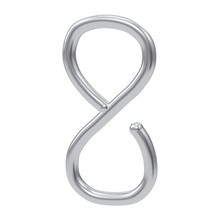
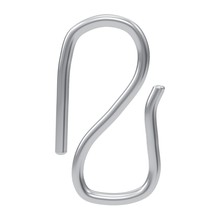
Add files via upload

Changed region(s): [[0.2455, 0.0545, 0.7636, 0.9545], [0.3545, 0.1636, 0.3818, 0.1909]]

diff --git a/configurateur/bead-core.js b/configurateur/bead-core.js
@@ -369,7 +369,7 @@ export const PLANCHE_ROCAILLES = [
   // d'après tes photos des bocaux : rouge 2 framboise métallisé, rouge 3 doublé argent vif, rouge 4 irisé à reflets violets ;
   // orange 2 = orange clair lustré, orange 3 = orange-rouge doublé argent (références inversées)
   ['rouge 1', '#c8101a', 'opaque'],              ['rouge 2', '#a3122e', 'transparent-metal'],   ['rouge 3', '#cc1420', 'transparent-metal'],  ['rouge 4', '#c8182c', 'transparent-irise-violet'],
-  ['orange 1', '#ff6a00', 'opaque-fluo'],             ['orange 2', '#ff8c2e', 'lustre-metal'],       ['orange 3', '#d8480c', 'transparent-metal'],  ['marron', '#4e2a10', 'brun-reflet'],
+  ['orange 1', '#ff6a00', 'opaque-fluo'],             ['orange 2', '#ff8c2e', 'lustre-metal'],       ['orange 3', '#d8480c', 'transparent-metal'],  ['marron', '#3a1f0c', 'brun-reflet'],
   ['jaune 1', '#ffb300', 'opaque-pep'],              ['jaune 2', '#f2d21e', 'translucide'],         ['pêche 1', '#f4a07a', 'translucide-metal'],        ['pêche 2', '#ee8a66', 'opaque'],
   ['bleu 1', '#00c9be', 'opaque-vif'],               ['bleu 2', '#2fa6cc', 'transparent-metal'],    ['bleu 3', '#1a36aa', 'opaque'],              ['bleu 4', '#15246e', 'opaque'],
   ['rose 1', '#f0288f', 'opaque'],               ['rose 2', '#f04ab8', 'translucide'],          ['vert 1', '#93b02a', 'transparent-metal'],   ['vert 2', '#2f7f3a', 'transparent'],
@@ -534,7 +534,7 @@ export const MINI_DEMO = [
   { ref: '#MC-ex02', forme: 'mini-fleur-4' }, { ref: '#MC-ex04', forme: 'mini-intercalaire-4' },
 ].map(c => ({ ...c, nom: FORMES_CHAINMAIL[c.forme].nom, hex: '#b4b6ba', finition: 'chainmail', categorie: 'Breloques chainmail', famille: 'Mini chain' }));
 export const CHAINMAIL_DEMO = [
-  { ref: '#CM-ex01', nom: 'Croix', hex: '#b4b6ba', finition: 'chainmail', forme: 'croix', categorie: 'Breloques chainmail', famille: 'Croix' },
+  { ref: '#CM-ex01', nom: 'Croix', hex: '#b4b6ba', finition: 'chainmail', forme: 'croix', categorie: 'Breloques chainmail', famille: 'Formes' },
 ];
 /* Liens explicites produit ↔ forme 3D (🔗 Références › Produits) : « forme:croix » → ref de la fiche bijou */
 let LIENS_FORMES = {};
@@ -564,10 +564,19 @@ export function catalogueChainmailDepuisBijoux(bijoux = []) {
     const deja = parForme.get(forme);
     if (!deja || score(b) > score(deja.b)) parForme.set(forme, { b, forme });
   }
-  for (const f of Object.keys(FORMES_CHAINMAIL)) { const r = lienForme(f), b = r && bijoux.find(x => x.ref === r); if (b && !FORMES_CHAINMAIL[f].chaine) parForme.set(f, { b, forme: f }); }
+  // formes proposées pour la breloque chainmail : la croix, les mini chains, et tes compositions « breloque » (motifs chainmail pampille) ;
+  // jamais les chaînes de sac ni les boucles d'oreilles
+  const proposable = f => { const F = FORMES_CHAINMAIL[f]; return !!F && !F.chaine && (F.compo ? F.usage === 'breloque' : true); };
+  for (const f of [...parForme.keys()]) if (!proposable(f)) parForme.delete(f);
+  for (const f of Object.keys(FORMES_CHAINMAIL)) { const r = lienForme(f), b = r && bijoux.find(x => x.ref === r); if (b && proposable(f)) parForme.set(f, { b, forme: f }); }
+  // une fiche = une seule forme (ta composition passe avant la forme d'origine), et pas deux fois le même nom
+  const vus = new Map();
+  for (const [f, x] of [...parForme].sort((a, b) => (FORMES_CHAINMAIL[b[0]].compo ? 1 : 0) - (FORMES_CHAINMAIL[a[0]].compo ? 1 : 0))) {
+    const k = x.b.id, n = norm(FORMES_CHAINMAIL[f].nom); if (vus.has(k) || vus.has('n:' + n)) { parForme.delete(f); continue; } vus.set(k, 1); vus.set('n:' + n, 1); }
+  const famille = f => { const F = FORMES_CHAINMAIL[f]; return (F.compo ? /\bmini/.test(norm(F.nom)) : F.mini) ? 'Mini chain' : 'Formes'; };
   return [...parForme.values()].map(({ b, forme }) => ({
     ref: b.ref, bij_id: b.id, nom: FORMES_CHAINMAIL[forme].nom, hex: '#b4b6ba', finition: 'chainmail', forme,
-    categorie: 'Breloques chainmail', famille: FORMES_CHAINMAIL[forme].mini ? 'Mini chain' : 'Croix', bijou: true, pv: b.pv ?? (b.parent_id && parId.get(b.parent_id)?.pv), enStock: true, ordre: 1e6 + 1 }));
+    categorie: 'Breloques chainmail', famille: famille(forme), bijou: true, pv: b.pv ?? (b.parent_id && parId.get(b.parent_id)?.pv), enStock: true, ordre: 1e6 + 1 }));
 }
 export function completerCatalogue(catalogue, bijoux = []) {
   let base = catalogue.filter(c => !['argile', 'chainmail'].includes(c.finition) || !/-ex\d/.test(c.ref));
@@ -1101,10 +1110,10 @@ export function creerMateriau(couleur) {
       break;
     case 'brun-reflet':            // marron transparent avec reflets caramel clairs (on lit bien le brun)
       // sans transparence (elle assombrissait la perle jusqu'au noir) : brun lumineux + reflets caramel clairs bien visibles
-      Object.assign(p, { roughness: 0.1, metalness: 0.78, clearcoat: 1, clearcoatRoughness: 0.04,
-        specularColor: new THREE.Color('#d98a3a'), specularIntensity: 1,
-        emissive: c.clone().multiplyScalar(0.3), sheen: 1, sheenRoughness: 0.2, sheenColor: new THREE.Color('#d9883a'),
-        iridescence: 0.35, iridescenceIOR: 1.45, iridescenceThicknessRange: [520, 640], envMapIntensity: 1.7 });
+      // base marron foncé, reflets métalliques caramel clair
+      // base marron foncé, reflet métallique caramel clair bien contrasté : métal caramel (les zones sans reflet restent sombres) + vernis
+      Object.assign(p, { color: new THREE.Color('#7a4419'), roughness: 0.16, metalness: 1, clearcoat: 0.7, clearcoatRoughness: 0.06,
+        emissive: c.clone().multiplyScalar(0.05), envMapIntensity: 1.6, sheen: 1, sheenRoughness: 0.25, sheenColor: new THREE.Color('#ffcf8c') });
       break;
     case 'translucide-metal':      // verre teinté peu transparent avec reflet métal (pêche 1, marron) : la teinte reste lisible
       Object.assign(p, { transmission: 0.2, thickness: 1.2, ior: 1.55, roughness: 0.05, metalness: 0.74,
@@ -1653,36 +1662,37 @@ function geosAccessoire(type, taille = 12) {
 /* Fermoir S, hauteur H (≈ 14 mm sur ta photo, comme le petit fermoir breloque) : fil ≈ 0,09 H, deux boucles en goutte,
    largeur ≈ 0,6 H. Plan YZ, bas de la boucle du bas à l'origine, le S monte vers -Z. */
 function geosFermoirS(H) {
-  // d'après tes photos : deux boucles en goutte allongées (côtés presque droits, pointe vers le milieu), reliées par une diagonale droite ;
-  // le bout de la boucle du haut est rentré contre la diagonale, celui du bas reste ouvert et s'écarte un peu (là où passe la pièce)
-  const W = 0.52 * H, r = Math.max(0.28, 0.038 * H);
-  const P = [[0.05, 0.525], [0.24, 0.61], [0.40, 0.72], [0.45, 0.83], [0.36, 0.955], [0.12, 1.0], [-0.22, 0.97], [-0.40, 0.88], [-0.42, 0.76], [-0.30, 0.65], [-0.12, 0.56],
-    [0.12, 0.44], [0.30, 0.35], [0.42, 0.24], [0.40, 0.10], [0.22, 0.015], [-0.05, 0.0], [-0.30, 0.03], [-0.44, 0.12], [-0.45, 0.24], [-0.38, 0.35], [-0.30, 0.41]];
-  const c = new THREE.CatmullRomCurve3(P.map(([y, h]) => new THREE.Vector3(0, y * W, -h * H)), false, 'centripetal');
-  const g = [new THREE.TubeGeometry(c, 220, r, 10, false)];
-  for (const [y, h] of [P[0], P[P.length - 1]]) { const e = new THREE.SphereGeometry(r * 1.05, 10, 8); e.translate(0, y * W, -h * H); g.push(e); }
+  // relevé sur ta photo (fermoir tenu entre les doigts) : boucle du haut en goutte, sa jambe gauche descend tout droit jusqu'à un bout ouvert ;
+  // la diagonale part du côté droit de la boucle du haut vers le bas gauche ; boucle du bas arrondie, sa jambe droite remonte jusqu'à un bout ouvert
+  const W = 0.6 * H, r = Math.max(0.28, 0.034 * H);
+  const P = [[-0.47, 0.28], [-0.46, 0.42], [-0.45, 0.55], [-0.42, 0.78], [-0.33, 0.93], [-0.08, 0.995], [0.17, 0.96], [0.28, 0.85], [0.26, 0.70],
+    [0.04, 0.51], [-0.23, 0.33], [-0.31, 0.21], [-0.31, 0.11], [-0.24, 0.035], [-0.04, 0.005], [0.18, 0.015], [0.33, 0.06], [0.40, 0.16], [0.38, 0.33], [0.36, 0.52], [0.43, 0.63]];
+  const c = new THREE.CatmullRomCurve3(P.map(([y, h]) => new THREE.Vector3(0, -y * W, -h * H)), false, 'centripetal');   // -y : vu comme sur la photo
+  const g = [new THREE.TubeGeometry(c, 240, r, 10, false)];
+  for (const [y, h] of [P[0], P[P.length - 1]]) { const e = new THREE.SphereGeometry(r, 10, 8); e.scale(1, 1, 0.6); e.translate(0, -y * W, -h * H); g.push(e); }   // bouts coupés
   return g;
 }
 /* Manille, hauteur H (≈ 24 mm sur ta photo à côté du mousqueton porte-clés de 34 mm) : arceau en U (fil ≈ 0,16 H, ouverture ≈ 0,54 H),
    deux oreilles en haut, axe vissé avec sa patte percée d'un côté. Plan YZ, bas de l'arceau à l'origine, vers -Z. */
 function geosManille(H) {
-  // d'après tes photos : arceau en fer à cheval (côtés presque droits, un peu bombés, fond en demi-cercle), plus haut que large,
-  // deux oreilles épaisses en haut traversées par l'axe : tête bombée d'un côté, bague + patte percée de l'autre
-  const W = H / 1.95, r = 0.095 * W, Rs = 0.74 * W, hC = r + Rs, hT = H - 0.12 * W, g = [];
-  // arceau en oméga : col resserré sous chaque oreille, puis ventre rond plus large que l'écart des oreilles
-  const cote = [[0.5, hT], [0.455, hT - 0.12 * W], [0.56, hT - 0.32 * W], [0.69, hC + 0.3 * W], [Rs / W, hC]].map(([y, h]) => [y * W, h]);
-  const pts = [], pt = (y, h) => pts.push(new THREE.Vector3(0, y, -h));
-  cote.forEach(([y, h]) => pt(-y, h));
-  for (let k = 1; k < 26; k++) { const a = Math.PI * k / 26; pt(-Rs * Math.cos(a), hC - Rs * Math.sin(a)); }
-  [...cote].reverse().forEach(([y, h]) => pt(y, h));
-  g.push(new THREE.TubeGeometry(new THREE.CatmullRomCurve3(pts, false, 'centripetal'), 160, r, 16, false));
-  const zP = -hT, yE = 0.5 * W;
-  for (const sg of [-1, 1]) { const o = new THREE.SphereGeometry(1, 22, 16); o.scale(0.2 * W, 0.11 * W, 0.2 * W); o.translate(0, sg * yE, zP); g.push(o); }   // oreilles : gros œillets ronds
-  const ax = new THREE.CylinderGeometry(0.075 * W, 0.075 * W, 2 * yE + 0.2 * W, 16); ax.translate(0, 0.08 * W, zP); g.push(ax);                          // axe (selon Y), affleurant à gauche
-  const bout = new THREE.CylinderGeometry(0.08 * W, 0.08 * W, 0.02 * W, 16); bout.translate(0, -yE - 0.11 * W, zP); g.push(bout);
-  const bague = new THREE.TorusGeometry(0.1 * W, 0.035 * W, 8, 20); bague.rotateX(Math.PI / 2); bague.translate(0, yE + 0.15 * W, zP); g.push(bague);       // rondelle
-  const patte = new THREE.BoxGeometry(0.05 * W, 0.26 * W, 0.2 * W); patte.translate(0, yE + 0.3 * W, zP); g.push(patte);                                // patte plate percée
-  const trou = new THREE.TorusGeometry(0.045 * W, 0.015 * W, 6, 16); trou.rotateY(Math.PI / 2); trou.translate(0.028 * W, yE + 0.34 * W, zP); g.push(trou);
+  const r = 0.085 * H, g = [];
+  // arceau en oméga (comme ta photo) : rond et plus large que l'écart des oreilles, avec un col sous chaque oreille
+  const Rb = 0.42, ye = 0.25, zc = 0.42, zN = zc + Math.sqrt(Rb * Rb - ye * ye);   // haut du cercle rejoint aux oreilles
+  const P = [[-ye, 0.86], [-ye * 0.98, 0.80]];
+  const t0 = Math.atan2(ye, zN - zc), tl = 2 * Math.PI - 2 * t0;            // angle compté depuis le haut du cercle, on fait le tour par le bas
+  for (let k = 1; k < 32; k++) { const t = Math.abs(t0) + tl * k / 32; P.push([-Rb * Math.sin(t), zc + Rb * Math.cos(t)]); }
+  P.push([ye * 0.98, 0.80], [ye, 0.86]);
+  const pts = P.map(([y, h]) => new THREE.Vector3(0, y * H, -h * H));
+  // le bas du cercle touche z = -r : on décale tout
+  const zMin = Math.min(...pts.map(p => -p.z)); pts.forEach(p => { p.z = p.z + zMin - r; });
+  g.push(new THREE.TubeGeometry(new THREE.CatmullRomCurve3(pts), 120, r, 14, false));
+  const yE = 0.25 * H, zP = pts[0].z;
+  for (const s of [-1, 1]) { const o = new THREE.TorusGeometry(r * 1.05, r * 0.85, 12, 24); o.rotateX(Math.PI / 2); o.translate(0, s * yE, zP); g.push(o); }   // oreilles (axe selon Y)
+  const ax = new THREE.CylinderGeometry(0.06 * H, 0.06 * H, 2 * yE + 0.12 * H, 16); ax.translate(0, 0.03 * H, zP); g.push(ax);                       // axe (selon Y)
+  const tete = new THREE.SphereGeometry(0.075 * H, 14, 10); tete.scale(0.6, 1, 1); tete.translate(0, -yE - 0.04 * H, zP); g.push(tete);
+  const bague = new THREE.TorusGeometry(0.075 * H, 0.025 * H, 8, 20); bague.rotateX(Math.PI / 2); bague.translate(0, yE + 0.09 * H, zP); g.push(bague);
+  const patte = new THREE.BoxGeometry(0.05 * H, 0.16 * H, 0.17 * H); patte.translate(0, yE + 0.2 * H, zP); g.push(patte);                          // patte percée
+  const trou = new THREE.TorusGeometry(0.035 * H, 0.012 * H, 6, 16); trou.rotateY(Math.PI / 2); trou.translate(0.026 * H, yE + 0.21 * H, zP); g.push(trou);
   return g;
 }
 /* Fermoir rond à ressort (anneau marin), diamètre extérieur D (mm), proportions relevées sur ta photo :
@@ -2427,7 +2437,7 @@ export function definirCompositions(liste = [], { brouillons = false } = {}) {
   for (const c of liste || []) if (c?.id) COMPOS[c.id] = c;
   for (const c of liste || []) { if (!c?.id || !(c.motif || []).length || (!brouillons && estBrouillon(c))) continue;
     const breloque = c.usage === 'breloque' || c.usage === 'bo';
-    FORMES_CHAINMAIL['compo-' + c.id] = { nom: c.nom || 'Composition', compo: true, chaine: !breloque, mini: breloque, bouts: c.bouts || 'mousquetons', boutsF: c.boutsF || null,
+    FORMES_CHAINMAIL['compo-' + c.id] = { nom: c.nom || 'Composition', compo: true, usage: c.usage || 'chaine', chaine: !breloque, mini: breloque, bouts: c.bouts || 'mousquetons', boutsF: c.boutsF || null,
       ...(breloque && (c.pampille || pampilleIntegree(c)) ? { pampille: 'ronde-4', pampilleK: ['#PM-ex01', 'ronde argentée 4 mm'] } : {}),
       gen: L => assemblerComposition(c, { detail: L === 'detail' || typeof L === 'number' }) };   // un nombre = un tronçon (vignette)
   }
@@ -3892,7 +3902,7 @@ export function modeleLettresDemo() {
     options: [
       { id: 'fermoir', type: 'fermoir', nom: 'Fermoir', defaut: '#FB001',
         choix: [{ ref: '#FB001', libelle: 'Petit', supplement: 0 }, { ref: '#FB002', libelle: 'Grand', supplement: 0 }] },
-      { id: 'etoile', type: 'perle', place: 'texte', nom: 'Perle étoile', perle: 'etoile-8', categorie: 'étoile', supplement: 0.5 },
+      { id: 'etoile', type: 'perle', place: 'texte', nom: 'Perle étoile', perle: 'etoile-8', categorie: 'étoile', supplement: 0 },   // comprise dans la fiche « 2 mots »
     ],
     groupes: [{ id: 'g-lettres', nom: 'Lettres', technique: 'lettres', type: 'lettre-7', pos: [0, 0, 0], rot: [0, 0, 0],
       accessoires: [{ ref: '#FB001', type: 'mousqueton', metal: 'argent', taille: 12, pos: [0, 0, 0], rot: [0, 0, 0] }],

diff --git a/configurateur/compositeur-chainmail.html b/configurateur/compositeur-chainmail.html
@@ -174,7 +174,7 @@ aside > *, .etape .corps > *, .seq-l, .seq-l .t { min-width: 0; }
         <label>Répéter <input type="number" id="nb" min="1" max="60" step="1" value="3" style="width:70px"> fois</label>
       </div>
       <div id="parties"></div>
-      <div class="ligne"><button class="btn mini" type="button" id="btPartie">＋ Ajouter un motif au milieu (jusqu'à 3)</button>
+      <div class="ligne"><button class="btn mini" type="button" id="btPartie">＋ Ajouter un motif au milieu</button>
         <label><input type="checkbox" id="demi"> + un demi-motif (1 nœud) à la fin du milieu</label></div>
       <div class="ligne" id="ligneLongueur"><label>Longueur visée <input type="number" id="longueur" min="0" step="0.5" style="width:80px"> cm</label><span class="aide" id="infoLongueur" style="margin:0"></span></div>
       <div class="sous">Fin <span class="aide" style="margin:0">(après le motif)</span></div><div id="fin" class="seq"></div>
@@ -223,7 +223,7 @@ aside > *, .etape .corps > *, .seq-l, .seq-l .t { min-width: 0; }
 <script type="module">
 import { ScenePerles, cleFixe, fermoirDepuisMateriau, assemblerComposition, decompteComposition, definirCompositions, elementChainmail, nomElementChainmail, estCorpsChainmail,
   elementDepuisNom, piecesComposition, connecteurEntre, modeleChaineSacDemo, modeleChainmailDemo, catalogueChaineDepuisBijoux, catalogueChainmailDepuisBijoux,
-  definirLiensFormes, NOMS_CHAINE, FORMES_CHAINMAIL, CATALOGUE_DEMO, formeChaine, estBrouillon, pampilleIntegree } from './bead-core.js?v=53b8d8e7';
+  definirLiensFormes, NOMS_CHAINE, FORMES_CHAINMAIL, CATALOGUE_DEMO, formeChaine, estBrouillon, pampilleIntegree } from './bead-core.js?v=20eda6e0';
 import { SUPABASE_URL, SUPABASE_ANON_KEY, supabaseConfigure } from './perles-config.js?v=e8e44d9a';
 
 const $ = s => document.querySelector(s);
@@ -251,11 +251,14 @@ function reglages(x, attr) {     // taille, connecteur, pétales, nombre d'annea
   if (e.k === 'fleur') return sel('coeur', [[8, 'cœur 8 mm'], [10, 'cœur 10 mm']]) + sel('petale', [['', 'pétales : 1 anneau 10 mm'], ['8x2', 'pétales : connecteur (2) 8 mm']])
     + sel('petales', [[2, '2 pétales'], ['haut', '1 pétale haut'], ['bas', '1 pétale bas'], [0, 'sans pétale']]);
   if (e.k === 'noeud') return sel('taille', [[8, '8 mm'], [10, '10 mm']]);
-  if (e.k === 'conn') return sel('nb', [[1, '1 anneau (solo)'], [2, '2 anneaux'], [3, '3 anneaux']]) + sel('taille', [[8, '8 mm'], [10, '10 mm']]);
-  if (e.k === 'anneau05') return sel('nb', [[1, 'solo'], [2, 'double']]);
+  if (e.k === 'conn') return sel('nb', [[1, '1 anneau (solo)'], [2, '2 anneaux'], [3, '3 anneaux']]) + sel('taille', [[8, '8 mm'], [10, '10 mm'], [5, '5 mm (petit anneau)']]);
+  if (e.k === 'anneau05') return sel('nb', [[1, 'solo'], [2, 'double']]) + sel('taille', [[5, '5 mm (petit anneau)'], [8, '8 mm'], [10, '10 mm']]);
   return '';
 }
-const lireReglage = (e, cle, v) => { e[cle] = cle === 'petales' ? (v === 'haut' || v === 'bas' ? v : +v) : cle === 'petale' ? (v || undefined) : +v; if (e[cle] === undefined) delete e[cle]; delete e.fiche; return e; };
+const lireReglage = (e, cle, v) => {
+  // un connecteur peut être en petits anneaux de 5 mm (solo ou double), et inversement
+  if (cle === 'taille' && e.k === 'conn' && +v === 5) return { k: 'anneau05', nb: Math.min(2, e.nb || 1), ...(e.profil ? { profil: true } : {}) };
+  if (cle === 'taille' && e.k === 'anneau05' && +v !== 5) return { k: 'conn', nb: e.nb || 1, taille: +v, ...(e.profil ? { profil: true } : {}) }; e[cle] = cle === 'petales' ? (v === 'haut' || v === 'bas' ? v : +v) : cle === 'petale' ? (v || undefined) : +v; if (e[cle] === undefined) delete e[cle]; delete e.fiche; return e; };
 
 /* ---------- modèles existants ---------- */
 const RECETTES = {
@@ -479,12 +482,12 @@ function rendreTout(cadrer = false) {
       + bijoux.filter(b => b.is_mat && /fermoir|mousqueton/.test(norm(b.nom))).map(b => `<option value="${esc(b.ref)}" ${b.ref === sel ? 'selected' : ''}>${esc(b.ref)} · ${esc(nomFiche(b))}</option>`).join('');
     $('#boutsDeux').checked = !!compo.boutsF?.deux; }
   const vide = z => `<p class="aide" style="margin:0">rien — choisis « ${z === 'debut' ? 'au début' : 'à la fin'} » puis touche un élément ci-dessous</p>`;
-  const ajoutConn = z => `<div class="ligne" style="margin:2px 0"><button class="btn mini" type="button" data-ajout-bout="${z}">＋ un connecteur</button><button class="btn mini" type="button" data-ajout-05="${z}">＋ un petit anneau 5 mm</button></div>`;
+  const ajoutConn = z => `<div class="ligne" style="margin:2px 0"><button class="btn mini" type="button" data-ajout-bout="${z}">＋ un connecteur</button><button class="btn mini" type="button" data-ajout-petit="${z}">＋ un petit anneau 5 mm</button></div>`;
   $('#debut').innerHTML = (compo.debut.map((x, i) => ligneElement(x, i, 'debut')).join('') || vide('debut')) + ajoutConn('debut');
   $('#parties').innerHTML = compo.parties.map((P, k) => `<div class="sous">Milieu · motif ${k + 2} qui se répète <button class="btn mini" type="button" data-suppr-partie="${k}" title="Retirer ce motif">✕</button></div>
     <div class="seq">${P.motif.map((x, i) => ligneElement(x, i, 'm' + (k + 2))).join('') || `<p class="aide" style="margin:0">vide — choisis « motif ${k + 2} » puis touche un élément ci-dessous</p>`}</div>
     <div class="ligne"><label>Répéter <input type="number" min="1" max="60" step="1" value="${P.nb || 1}" data-nb-partie="${k}" style="width:70px"> fois</label></div>`).join('');
-  $('#btPartie').hidden = compo.parties.length >= 2;
+  $('#btPartie').hidden = false;
   const zonesC = [['debut', 'au début'], ['motif', 'au motif 1'], ...compo.parties.map((P, k) => ['m' + (k + 2), 'au motif ' + (k + 2)]), ['finEl', 'à la fin']];
   if (!zonesC.some(([v]) => v === CIBLE)) CIBLE = 'motif';
   $('#cibles').innerHTML = zonesC.map(([v, l]) => `<label><input type="radio" name="cible" value="${v}" ${CIBLE === v ? 'checked' : ''}> ${l}</label>`).join('');
@@ -522,9 +525,9 @@ document.addEventListener('click', e => {
   const cible = () => CIBLE, mot = { debut: 'au début', motif: 'au motif 1', m2: 'au motif 2', m3: 'au motif 3', finEl: 'à la fin' };
   if (t.dataset.ajoutBout) { const z = t.dataset.ajoutBout, ref = [...compo.motif, ...compo.parties.flatMap(p => p.motif)].find(x => !estCorpsChainmail(x) && elementChainmail(x).k === 'conn');
     zoneListe(z)[z === 'debut' ? 'unshift' : 'push'](clone(elementChainmail(ref || C(2, 8)))); return rendreTout(true); }
-  if (t.dataset.ajout05) { const z = t.dataset.ajout05; zoneListe(z)[z === 'debut' ? 'unshift' : 'push']({ k: 'anneau05', nb: 1 }); return rendreTout(true); }
+  if (t.dataset.ajoutPetit) { const z = t.dataset.ajoutPetit; zoneListe(z)[z === 'debut' ? 'unshift' : 'push']({ k: 'anneau05', nb: 1 }); return rendreTout(true); }
   if (t.dataset.supprPartie) { compo.parties.splice(+t.dataset.supprPartie, 1); return rendreTout(true); }
-  if (t.id === 'btPartie') { if (compo.parties.length < 2) compo.parties.push({ motif: [], nb: 1 }); CIBLE = 'm' + (compo.parties.length + 1); rendreTout(true); return toast('Motif ' + (compo.parties.length + 1) + ' ajouté au milieu : touche ses éléments ci-dessous'); }
+  if (t.id === 'btPartie') { compo.parties.push({ motif: [], nb: 1 }); CIBLE = 'm' + (compo.parties.length + 1); rendreTout(true); return toast('Motif ' + (compo.parties.length + 1) + ' ajouté au milieu : touche ses éléments ci-dessous'); }
   const zi = v => { const [z, i] = String(v).split(':'); return [z, +i, zoneListe(z)]; };
   if (t.dataset.el) { zoneListe(cible()).push(clone(BASE[+t.dataset.el])); rendreTout(true); }
   else if (t.dataset.elFiche) { const x = ELEMENTS_FICHES.find(y => y.b.ref === t.dataset.elFiche); zoneListe(cible()).push(elDeFiche(x)); rendreTout(true); toast('« ' + nomFiche(x.b) + ' » ajouté ' + mot[cible()]); }

diff --git a/configurateur/configurateur-3d.html b/configurateur/configurateur-3d.html
@@ -409,7 +409,7 @@ label.champ input:focus, label.champ textarea:focus { border-color: var(--prune)
       <p>Accroche ta création sur une chaîne de sac en double byzantine.</p>
       <button class="btn-second" type="button" id="btVersChaine">Ajouter une chaîne de sac</button>
     </div>
-    <details class="idees-bundle" id="ideesBundle" hidden><summary><span class="ic-etoile"></span>Voir nos idées de composition</summary><div class="idees-g" id="ideesBundleG"></div></details>
+    <div class="idees-inline" id="ideesBundle" hidden><h3><span class="ic-etoile"></span>Nos idées de composition</h3><div class="idees-g" id="ideesBundleG"></div></div>
 
     <!-- Bundle : accroche puis breloques -->
     <section class="etape" aria-labelledby="tC" id="etapeChaine" hidden>
@@ -503,7 +503,7 @@ import {
   correspondCategorie, texteCatalogue, ordreModeles, chargerRuptures, appliquerRuptures,
   chargerLiens, appliquerLiens, relierModele, chargerMateriauxParRefs,
   chargerFichesConfig, chargerOffres, definirLiensFormes, lienModele, appliquerLienModele, formeLiee, composerCompos, definirFichesConfig, ficheCfg, refsCouleurFiche, famillesFiche,
-} from './bead-core.js?v=53b8d8e7';
+} from './bead-core.js?v=20eda6e0';
 import { SUPABASE_URL, SUPABASE_ANON_KEY, supabaseConfigure, INFOS_ATELIER, PANIER_SHOPIFY } from './perles-config.js?v=e8e44d9a';
 
 const $ = s => document.querySelector(s);
@@ -602,7 +602,7 @@ if (modeles.some(breloqueDispo)) modeles = modeles.filter(breloqueDispo);
 // breloques proposées selon le parcours (app de gestion › Conception 3D) : « breloque:<slug> » / « bundle:<slug> » = masquée dans ce parcours
 const rupSet = new Set(ruptures);
 catalogue = catalogue.filter(c => !(c.categorie === 'Chaînes de sac' && c.bij_id && rupSet.has('idee:' + c.bij_id)));   // chaînes masquées dans l'app
-catalogue = catalogue.filter(c => !(c.finition === 'chainmail' && c.forme && rupSet.has('forme:' + c.forme)));         // formes chainmail masquées (croix, mini chaînes)
+catalogue = catalogue.filter(c => !(c.finition === 'chainmail' && c.forme && (rupSet.has('forme:' + c.forme) || (c.bij_id && rupSet.has('idee:' + c.bij_id)))));   // formes masquées dans l'app (forme ou sa fiche)         // formes chainmail masquées (croix, mini chaînes)
 const modelesDu = p => {
   if (p === 'chaine') return modeles.filter(m => estChaineSac(m) && !rupSet.has('chaine:' + m.slug));
   const tous = modeles.filter(m => !estChaineSac(m));                                   // les chaînes de sac ont leur propre parcours
@@ -611,6 +611,8 @@ const aDesEtoiles = catalogue.some(c => texteCatalogue(c).includes('etoile'));
 modeles.sort(ordreModeles);                                    // le petit poisson en premier
 modeles = modeles.map(m0 => {
   const m = resoudreDefauts(relierModele(m0, liens), catalogue, fermoirs);
+  // breloque lettre : l'étoile du milieu est comprise dans le prix de la fiche « 2 mots » (on choisit sa couleur, sans supplément)
+  if (estLettres(m)) for (const o of m.options || []) if (o.type === 'perle' && o.place === 'texte') { o.supplement = 0; (o.choix || []).forEach(c => { if (c && typeof c === 'object') c.supplement = 0; }); }
   // étoile dans la bouche proposée par défaut si le modèle publié ne la prévoit pas
   if (m.groupes?.some(g => ['poisson', 'arete'].includes(g.technique)) && aDesEtoiles && !(m.options || []).some(o => o.type === 'perle'))
     (m.options ||= []).push({ id: 'etoile', type: 'perle', nom: 'Perle étoile', perle: 'etoile-8', categorie: 'étoile', supplement: 0.5 });
@@ -1356,7 +1358,6 @@ function rendreIdees() {
 // bundle : « Voir nos idées de composition » en haut de page, replié (les vignettes ne se calculent qu'à l'ouverture)
 function rendreIdeesBundle(lots) {
   const d = $('#ideesBundle'); d.hidden = !lots.length; if (!lots.length) return;
-  if (!d.open) { $('#ideesBundleG').innerHTML = ''; return; }
   const nouv = lots.some(x => !VIGNETTES.has('p:' + x.fiche.id));
   const imgs = lots.map(x => vignette('p:' + x.fiche.id, () => {
     const acc = accroches.choix.find(c => c.id === x.accroche);
@@ -1367,11 +1368,10 @@ function rendreIdeesBundle(lots) {
   $('#ideesBundleG').innerHTML = lots.map((x, i) => carteIdee(imgs[i], x.nom, x.prix, `data-lot="${i}"`)).join('');
   $('#ideesBundleG').querySelectorAll('[data-lot]').forEach(b => b.addEventListener('click', () => {
     const x = lots[+b.dataset.lot]; etat.accroche = x.accroche; etat.compos = [{ surChaine: false }]; etat.mousq = false;
-    etat.breloques = x.breloques.map(br => ({ ...br, couleurs: { ...br.couleurs } })); etat.actif = 0; d.open = false;
+    etat.breloques = x.breloques.map(br => ({ ...br, couleurs: { ...br.couleurs } })); etat.actif = 0;
     rendre3D({ cadrer: true }); toutRendre(); }));
 }
 $('#ideesBundle .ic-etoile').innerHTML = ETOILE;
-$('#ideesBundle').addEventListener('toggle', () => { if ($('#ideesBundle').open) rendreIdees(); });
 // cartes d'idée (vignette + nom + prix)
 function carteIdee(img, nom, prix, attr) { return `<button class="idee" type="button" ${attr}>${img ? `<img src="${img}" alt="">` : '<span class="ph">✦</span>'}<b>${esc(nom)}</b><span>${prix != null && prix !== '' ? euros(prix) : ''}</span></button>`; }
 const cleVignette = (m, x) => 'b:' + m.slug + ':' + x.fiche.id + ':' + JSON.stringify(x.breloque.couleurs);
@@ -1459,7 +1459,7 @@ function rendreTexte() {
   $('#etapeTexte').hidden = !etat.parcours || !estLettres(m);
   if ($('#etapeTexte').hidden) return;
   const max = m.lettres?.max || 8, oe = optEtoileTexte(m), t = b.texte;
-  $('#modesTexte').innerHTML = [[1, 'Un mot', `${max} lettres max`], [2, 'Deux mots', `avec une étoile${oe?.supplement ? ' · +' + euros(oe.supplement) : ''}`]]
+  $('#modesTexte').innerHTML = [[1, 'Un mot', `${max} lettres max`], [2, 'Deux mots', 'avec une étoile au milieu']]
     .map(([v, l, d]) => `<button class="segment" type="button" data-mode="${v}" aria-pressed="${t.mode === v}"><b>${l}</b><span>${d}</span></button>`).join('');
   const champ = (i, ph) => `<input id="mot${i}" type="text" inputmode="text" autocomplete="off" autocapitalize="characters" maxlength="${max}" placeholder="${ph}" value="${esc(t.mots[i] || '')}" aria-label="Mot ${i + 1}">`;
   $('#mots').className = 'mots' + (t.mode === 1 ? ' un' : '');

diff --git a/index.html b/index.html
@@ -4446,12 +4446,14 @@ const C3D_PAGES = { cfg: 'configurateur-3d.html?apercu=1', m3d: 'editeur-perles.
 // Breloques proposées aux clientes, séparément pour « breloque seule » et « bundle ».
 // Masquée dans un parcours = entrée « breloque:<slug> » / « bundle:<slug> » dans configurateur_ruptures (déjà lisible par le configurateur) ;
 // masquée partout = modèle non publié.
-let MODELES_3D=[], RUPTURES_3D=[];
+let MODELES_3D=[], RUPTURES_3D=[], COMPOS_3D=[], LIENS_3D={};
 async function renderModelesProposes(){
   const el=document.getElementById('c3-proposes'); if(!el) return;
   try{ const {data,error}=await SB.from('modeles_3d').select('slug,nom,publie').order('nom'); if(error) throw error; MODELES_3D=data||[];
     const r=await SB.from('config').select('value').eq('key','configurateur_ruptures').maybeSingle(); let v=r.data?.value;
     if(typeof v==='string'){ try{ v=JSON.parse(v); }catch(e){ v=[]; } } RUPTURES_3D=Array.isArray(v)?v.map(String):[];
+    { const lc=async k=>{ const r=await SB.from('config').select('value').eq('key',k).maybeSingle(); let w=r.data?.value; if(typeof w==='string'){ try{ w=JSON.parse(w); }catch(e){ w=null; } } return w; };
+      const cm=await lc('chainmail_compositions'); COMPOS_3D=Array.isArray(cm)?cm:[]; const li=await lc('configurateur_liens'); LIENS_3D=li&&typeof li==='object'?li:{}; }
     { const a=await SB.from('config').select('value').eq('key','configurateur_alternatives').maybeSingle(); let w=a.data?.value; if(typeof w==='string'){ try{ w=JSON.parse(w); }catch(e){ w=null; } } if(Array.isArray(w)) ALTERNATIVES=w; } }
   catch(e){ el.innerHTML=`<span class="dim">Modèles : ${escA(e.message)}</span>`; return; }
   el.innerHTML=rendreC3();
@@ -4496,7 +4498,13 @@ function rendreC3(){
   if(C3_ONGLET==='breloques'){
     corps=`<p class="dim c3-aide">Les modèles 3D proposés au client, dans chaque parcours (breloque seule / bundle). Un modèle se publie dans 🧊 Modèles.</p>`
       +(MODELES_3D.length?MODELES_3D.map(m=>c3Ligne(escA(m.nom||m.slug),c3Inter(vuM(m,'breloque'),`basculerModele('${escA(m.slug)}','breloque')`,'breloque seule')+c3Inter(vuM(m,'bundle'),`basculerModele('${escA(m.slug)}','bundle')`,'bundle + chaîne de sac'),{sous:m.publie?'':'non publié'})).join(''):'<p class="dim">Aucun modèle 3D enregistré (onglet 🧊 Modèles) : le configurateur montre les modèles d\'exemple.</p>')
-      +c3Groupe('formes','Breloque chainmail · formes',FORMES_3D.map(([f,nom])=>c3Ligne(escA(nom),c3Inter(c3Vu('forme:'+f),`basculerForme('${f}')`))).join(''))
+      +(()=>{ // formes de la breloque chainmail = exactement celles du configurateur : croix, mini chains, tes compositions « breloque » (pas les chaînes, pas les BO)
+          const ficheDe=f=>{ const r=LIENS_3D['forme:'+f]; const b=r&&BIJS.find(x=>x.ref===r); return b?nomFiche3(b)+' · '+b.ref:''; };
+          const cps=COMPOS_3D.filter(c=>c.usage==='breloque'&&c.statut!=='brouillon'&&LIENS_3D['forme:compo-'+c.id]);
+          const L=[...FORMES_3D.map(([f,nom])=>({f,nom,fam:/^mini/.test(f)?'Mini chain':'Formes'})),...cps.map(c=>({f:'compo-'+c.id,nom:c.nom,fam:/\bmini/i.test(c.nom||'')?'Mini chain':'Formes'}))];
+          const ligne=x=>c3Ligne(escA(x.nom),c3Inter(c3Vu('forme:'+x.f),`basculerForme('${escA(x.f)}')`),{sous:escA(ficheDe(x.f))});
+          return c3Groupe('formes','Breloque chainmail · formes',['Formes','Mini chain'].map(fm=>`<div class="dim" style="font-weight:700;margin:6px 0 2px">${fm}</div>`+L.filter(x=>x.fam===fm).map(ligne).join('')).join('')
+            +`<p class="dim c3-aide">Les compositions « breloque » enregistrées et validées dans ⛓ Composer apparaissent ici ; les chaînes de sac et les boucles d'oreilles n'y sont jamais proposées. Masquer leur fiche (💡 Idées / ⛓ Chaînes) les retire aussi.</p>`); })()
       +`<p class="dim c3-aide">La fiche produit de chaque modèle / forme se relie dans 🔗 Références › Produits ↔ modèles 3D.</p>`;
   } else if(C3_ONGLET==='idees'){
     const fam=D.fam.filter(f=>[f.base,...f.vars].some(b=>c3Filtre(nomFiche3(b))));
@@ -4632,7 +4640,7 @@ async function majOffre(k,c,v,type){
   await sbUpsertConfig('configurateur_offres', cfg); OFFRES_CFG=cfg; toast('Offres enregistrées ✓','ok'); renderModelesProposes(); rafraichirApercu();
 }
 // formes de la breloque chainmail (croix, mini chaînes) : affichées / masquées une par une
-const FORMES_3D=[['croix','Croix'],['mini-fleur-4','Mini chain · Byzantine fleur'],['mini-intercalaire-4','Mini chain · Byzantine alternative']];
+const FORMES_3D=[['croix','Croix'],['mini-fleur-4','Byzantine fleur'],['mini-intercalaire-4','Byzantine alternative']];
 function renderFormesProposees(){
   const bt=([f,nom])=>{ const on=!RUPTURES_3D.includes('forme:'+f); return `<button type="button" class="c3p ${on?'on':''}" onclick="basculerForme('${f}')">${on?'👁':'🚫'} ${escA(nom)}</button>`; };
   return `<div class="c3p-l" style="margin-top:8px"><span class="c3p-nom">⛓ Breloque chainmail · formes</span>${FORMES_3D.map(bt).join('')}</div>`;

diff --git a/configurateur/commandes-perso.html b/configurateur/commandes-perso.html
@@ -114,7 +114,7 @@ td.ref { font: 600 9.5pt var(--f-titre); white-space: nowrap; }
 
 <script type="module">
 import { lignesCommande, lignesCommandeBundle, construireLettres, estLettres, listerDemandes, majDemande, chargerModeleBoutique, chargerCatalogueBoutique,
-         chargerFermoirsBoutique, resoudreDefauts, modeleDemo, chargerBijouxBoutique, bijouBreloque, completerCatalogue, chargerLiens, definirLiensFormes, appliquerLienModele } from './bead-core.js?v=53b8d8e7';
+         chargerFermoirsBoutique, resoudreDefauts, modeleDemo, chargerBijouxBoutique, bijouBreloque, completerCatalogue, chargerLiens, definirLiensFormes, appliquerLienModele } from './bead-core.js?v=20eda6e0';
 import { SUPABASE_URL, SUPABASE_ANON_KEY, INFOS_ATELIER } from './perles-config.js?v=e8e44d9a';
 const raisonConnexion = e => /invalid login/i.test(e.message) ? 'e-mail ou mot de passe incorrect'
   : /not confirmed/i.test(e.message) ? 'adresse e-mail pas encore confirmée (Supabase › Authentication › Users)'

diff --git a/configurateur/references-configurateur.html b/configurateur/references-configurateur.html
@@ -92,7 +92,7 @@ import {
   completerCatalogue, definirLiensFormes, catalogueChainmailDepuisBijoux, catalogueChaineDepuisBijoux, NOMS_CHAINE, completerModeleChainmail, modeleChaineSacDemo, estChaineSac, FORMES_CHAINMAIL, resoudreDefauts, couleursProposees, correspondCategorie, ordreModeles, estLettres, accrochesProposees,
   chargerLiens, enregistrerLiens, estExemple, exemplesParRef, apercuArgile, apercuChainmail, baseRef,
   appliquerLiens, relierModele, appliquerLienModele, definirLiensFixes, cleFixe, refFixe, catalogueDepuisMateriaux, perlesFixesDe, allureFixe, bijouBreloque, definirCompositions, elementDepuisNom,
-} from './bead-core.js?v=53b8d8e7';
+} from './bead-core.js?v=20eda6e0';
 import { SUPABASE_URL, SUPABASE_ANON_KEY } from './perles-config.js?v=e8e44d9a';
 
 const $ = s => document.querySelector(s);

diff --git a/configurateur/editeur-perles.html b/configurateur/editeur-perles.html
@@ -560,7 +560,7 @@ import {
   couleursProposees, chargerCatalogueBoutique, affinerCouleursDepuisPhotos, resoudreDefauts, TAILLES_MOUSQUETON,
   FERMOIRS_DEMO, chargerFermoirsBoutique, prixConfiguration,
   genArete, PATRON_TETE_ARETE, estAccroche, modeleAreteDemo, modeleLettresDemo, modeleArgileDemo, modeleChainmailDemo, modelePerleCultureDemo, modeleChaineSacDemo, chargerModeleBoutique, listerModelesBoutique, enregistrerModeleBoutique,
-} from './bead-core.js?v=53b8d8e7';
+} from './bead-core.js?v=20eda6e0';
 const raisonConnexion = e => /invalid login/i.test(e.message) ? 'e-mail ou mot de passe incorrect'
   : /not confirmed/i.test(e.message) ? 'adresse e-mail pas encore confirmée (Supabase › Authentication › Users)'
   : e.message;

diff --git a/configurateur/stock-configurateur.html b/configurateur/stock-configurateur.html
@@ -54,7 +54,7 @@ import {
   completerCatalogue, resoudreDefauts, couleursProposees, correspondCategorie, texteCatalogue, ordreModeles, bijouBreloque,
   chargerRuptures, enregistrerRuptures, apercuArgile, apercuChainmail, estLettres, accrochesProposees,
   chargerLiens, appliquerLiens, relierModele, chargerMateriauxParRefs,
-} from './bead-core.js?v=53b8d8e7';
+} from './bead-core.js?v=20eda6e0';
 import { SUPABASE_URL, SUPABASE_ANON_KEY } from './perles-config.js?v=e8e44d9a';
 
 const $ = s => document.querySelector(s);
